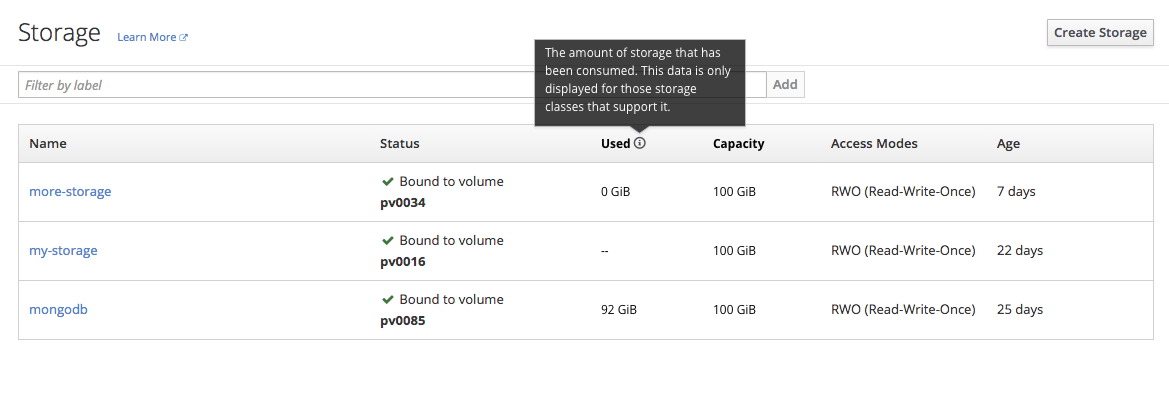
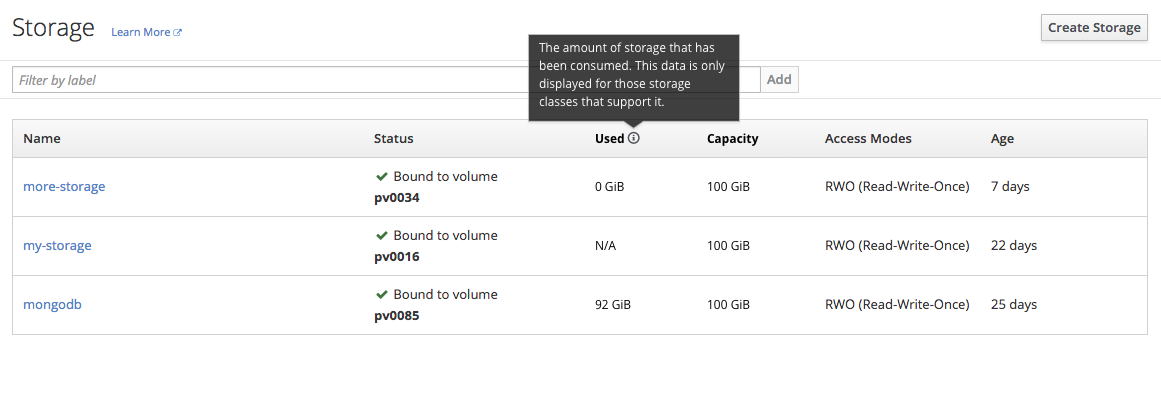
N/A when metric doesn't exist

diff --git a/web-console/project-details/storage-metrics.md b/web-console/project-details/storage-metrics.md
@@ -4,7 +4,7 @@
 - What should the entry for capacity consumed be called? I'm using "Used" in these mocks, but should it be "Capacity Consumed"? Something else?
 - What would we want the thresholds for the donut chart to be? Are the defaults ok?
 - Will these storage metrics be tied to any events or warnings so that we can proactively inform users of any storage problems?
-- Is `--` how we want to show that data is not available? Should we add a tooltip to that as well?
+- Is `N/A` how we want to show that the metric doesn't exist? Should we add a tooltip to that as well?
 - Is the order of the fields ok for the PVC details page?
 
 ## Storage List Page
@@ -14,8 +14,7 @@
 - Add a column **Used** between the **Status** and **Capacity** columns.
 - The units should match between the **Used** and **Capacity** columns for easy comparison.
 - Because it's possible that not all storage classes will have the capacity consumed metric, field-level help should be used in the column header to explain why some rows may not have an entry in that column.
-- If that metric is not available for a PVC, two dashes `--` should appear in the **Used** column for that row.
-
+- If that metric is not available for a storage class, `N/A` should appear in the **Used** column for that row.
 
 
 ## Storage Details Page
@@ -56,7 +55,7 @@
 ![storage metrics on add storage pages](img/storage-metrics-on-add-storage.png)
 - A column should be added indicating the amount of capacity *available* for each claim, when the storage class supports the metric.
 - This may give a user some indication of which PVCs are being consumed by other applications.
-- Two dashes `--` should appear in that column if the metric is not available.
+- `N/A` should appear in that column if the metric is not available.
 - If none of the claims listed support the metric, that column should not appear.
 
 ## *Future* Warnings and Notifications
@@ -64,3 +63,4 @@
 - We should indicate those situations on the Storage list page as well as on details pages.
 - At the deployment level, we should warn users if storage claims their applications are consuming are nearing or at their storage capacity. Warnings should be visible on the Overview, deployments list and deployment details pages.
 - Warnings about storage usage should appear inline rather than in the notification drawer so that they are not missed.  
+- May be useful to have time-based metrics so that users will be able to predict when they might need to take action on their storage.
